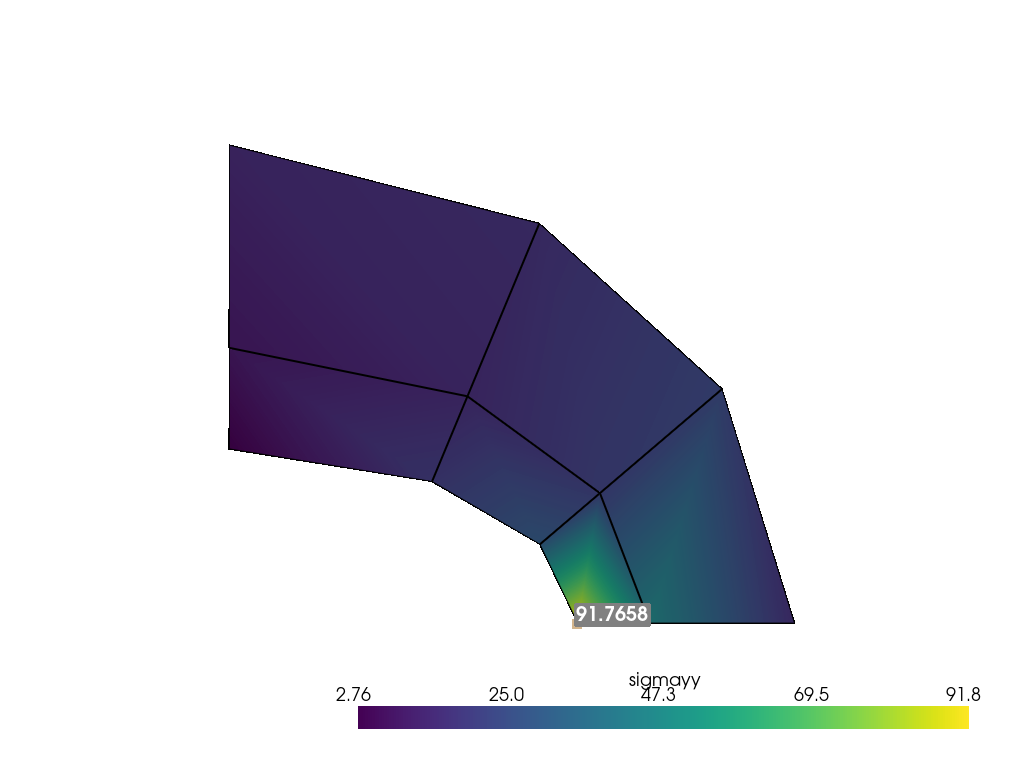
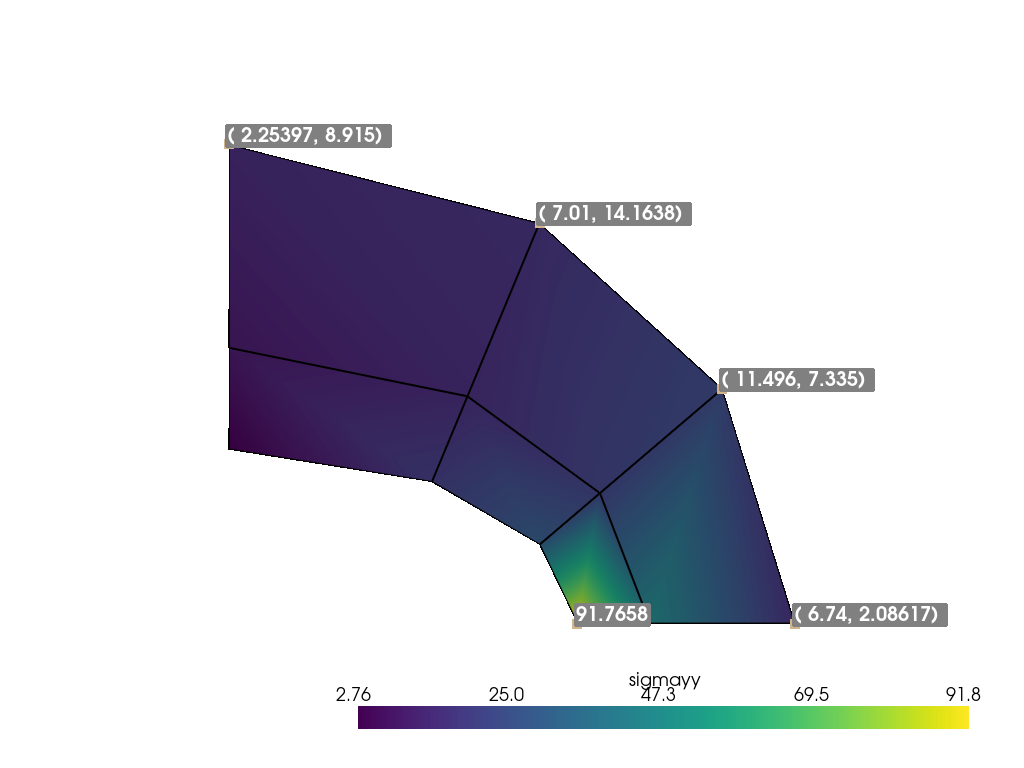
Add RHS output

diff --git a/benchmarks_data/structure/elliptic_membrane/GetFEM/coarse-quadrilateron-1d.py b/benchmarks_data/structure/elliptic_membrane/GetFEM/coarse-quadrilateron-1d.py
@@ -45,6 +45,8 @@ md.add_initialized_data("nu", nu)
 md.add_isotropic_linearized_elasticity_pstress_brick(mim, "u", "E", "nu")
 md.add_normal_source_term_brick(mim, "u", "NeumannData", OUTER_BOUND)
 # md.add_source_term(mim, "(Reshape(NeumannData,qdim(u),meshdim)*Normal).Test_u", OUTER_BOUND)
+md.assembly()
+RHS = md.rhs()
 md.add_initialized_data("r1", [0, 0])
 md.add_initialized_data("r2", [0, 0])
 md.add_initialized_data("H1", [[1, 0], [0, 0]])
@@ -59,16 +61,24 @@ md.solve()
 U = md.variable("u")
 grad_u = gf.compute_gradient(mfu, U, mfd)
 sigmayy = clambda * (grad_u[0, 0] + grad_u[1, 1]) + 2.0 * mu * grad_u[1, 1]
-mfu.export_to_vtk("coarse-quadrilateron-1d.vtk", "ascii", mfd, sigmayy, "sigmayy")
+mfu.export_to_vtk(
+    "coarse-quadrilateron-1d.vtk", "ascii", mfd, sigmayy, "sigmayy", mfu, RHS, "RHS"
+)
 
 m = pv.read("coarse-quadrilateron-1d.vtk")
 pl = pv.Plotter()
 pl.add_mesh(m, show_edges=True, line_width=2, scalars="sigmayy")
 pl.add_point_labels(
-    m.points[np.all(m.points == [2.0, 0.0, 0.0], axis=1)],
-    [str(m["sigmayy"][np.all(m.points == [2.0, 0.0, 0.0], axis=1)][0])],
-    point_size=10,
-    font_size=20,
-    text_color="white",
+    m.points[3], [str(m["sigmayy"][3])], point_size=10, font_size=20, text_color="white"
 )
+
+for i in [8, 9, 10, 11]:
+    pl.add_point_labels(
+        m.points[i],
+        ["( " + str(m["RHS"][:, 0][i]) + ", " + str(m["RHS"][:, 1][i]) + ") "],
+        point_size=10,
+        font_size=20,
+        text_color="white",
+    )
+
 pl.show(cpos="xy", screenshot="coarse-quadrilateron-1d.png")
